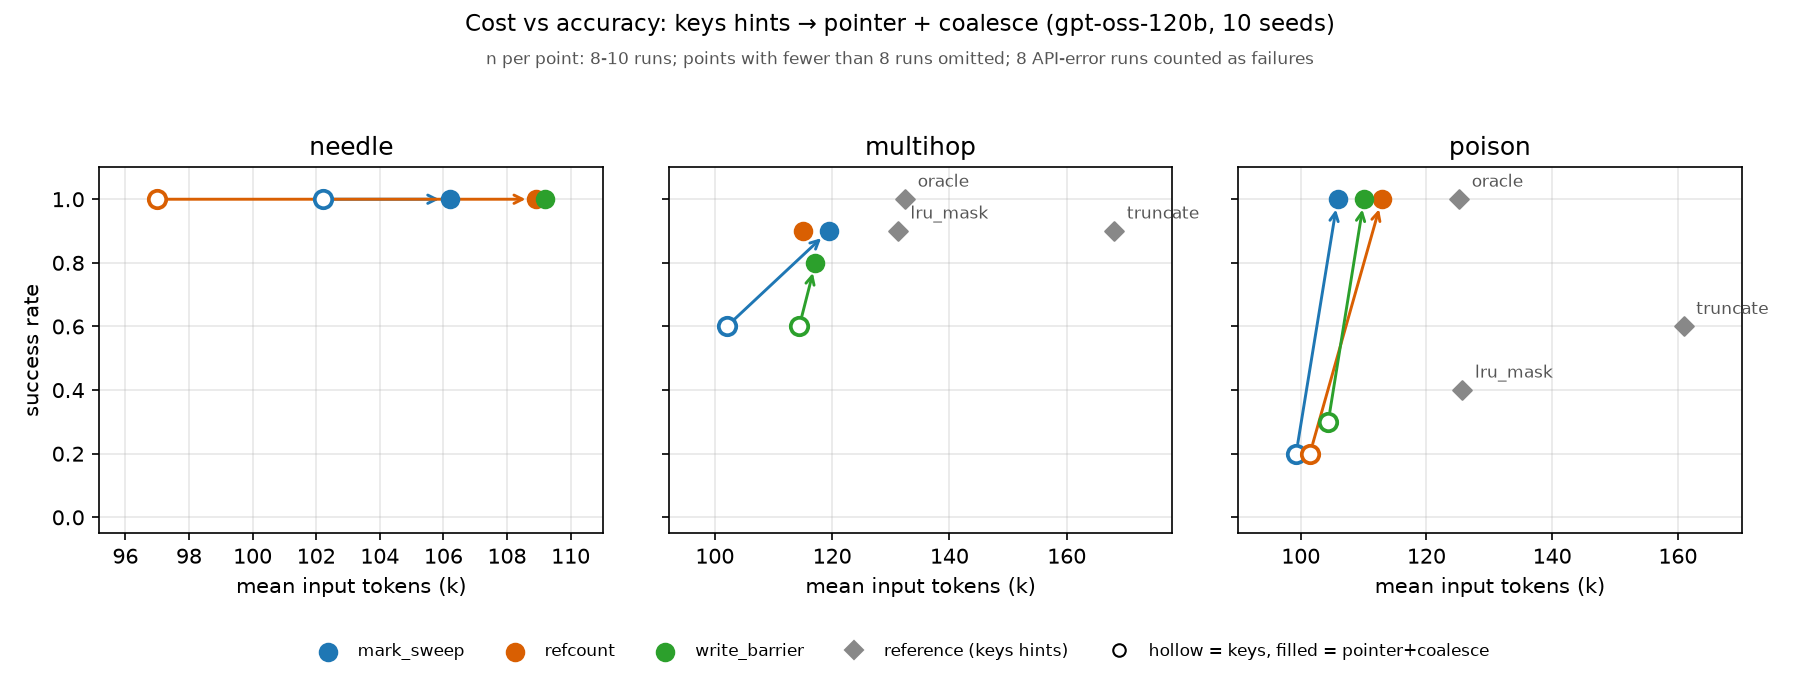
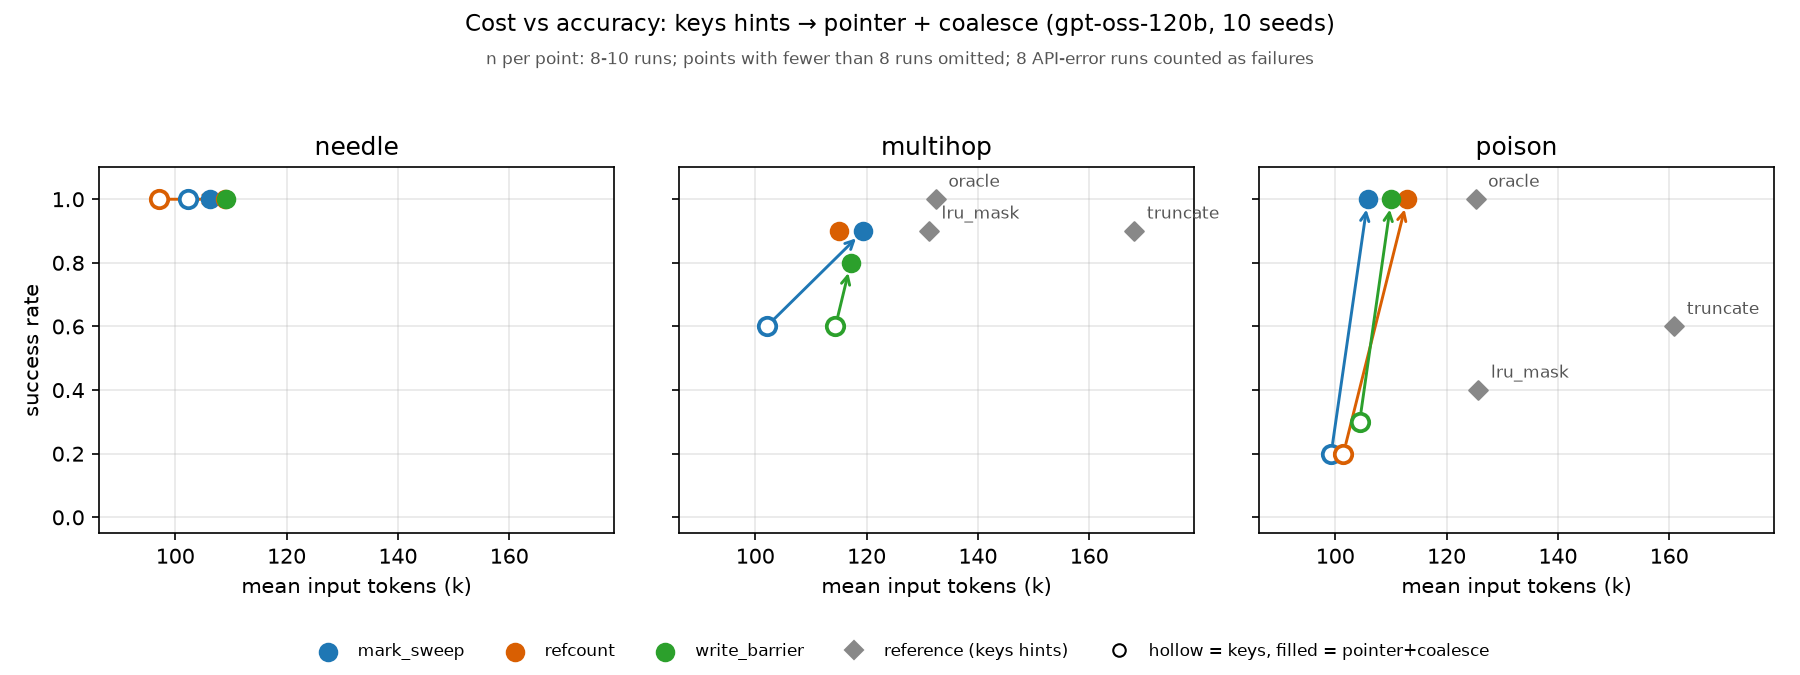
Share x axis across trade-off panels

diff --git a/analysis/tradeoff.py b/analysis/tradeoff.py
@@ -35,7 +35,7 @@ def points(path):
 
 
 def plot(pts, out):
-    fig, axes = plt.subplots(1, 3, figsize=(12, 4.5), sharey=True)
+    fig, axes = plt.subplots(1, 3, figsize=(12, 4.5), sharex=True, sharey=True)
     for ax, fam in zip(axes, FAMILIES):
         p = pts[pts.family == fam]
         for _, r in p[p.strategy.isin(REFS)].iterrows():
